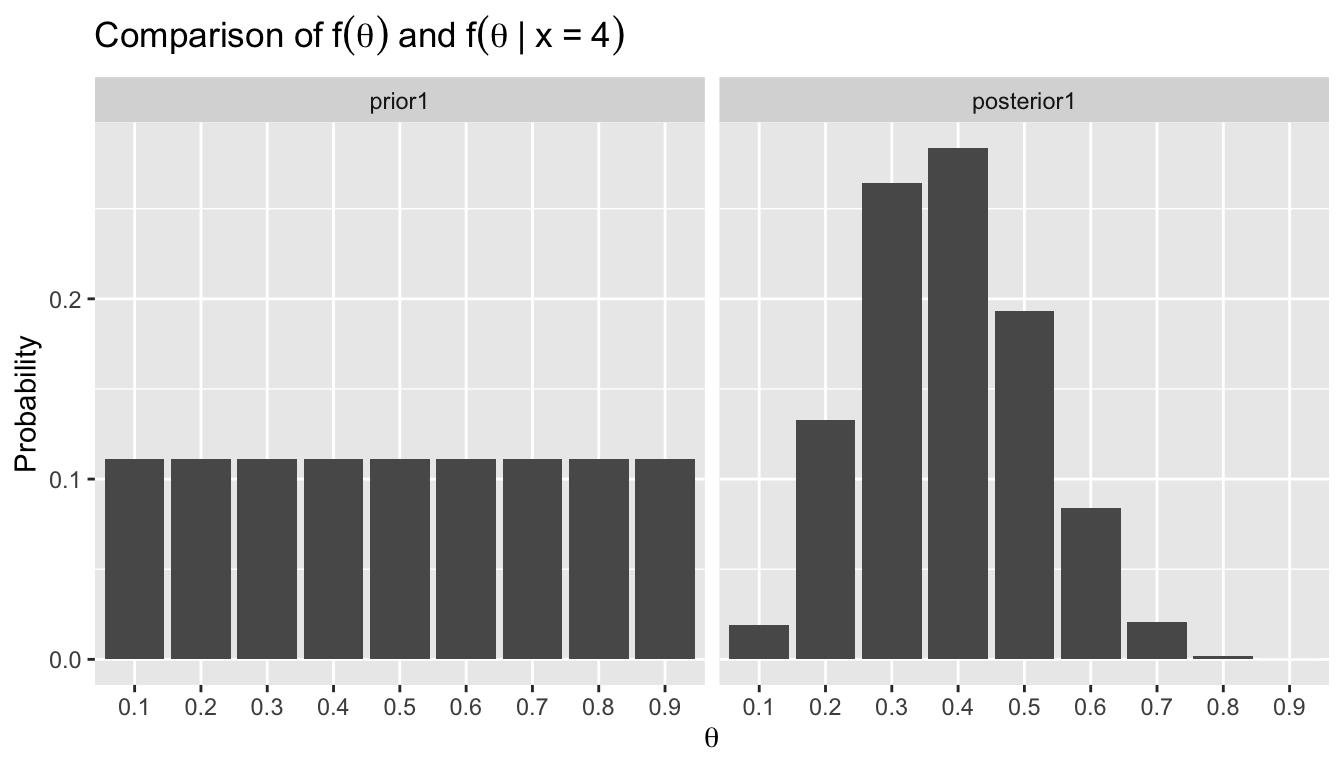
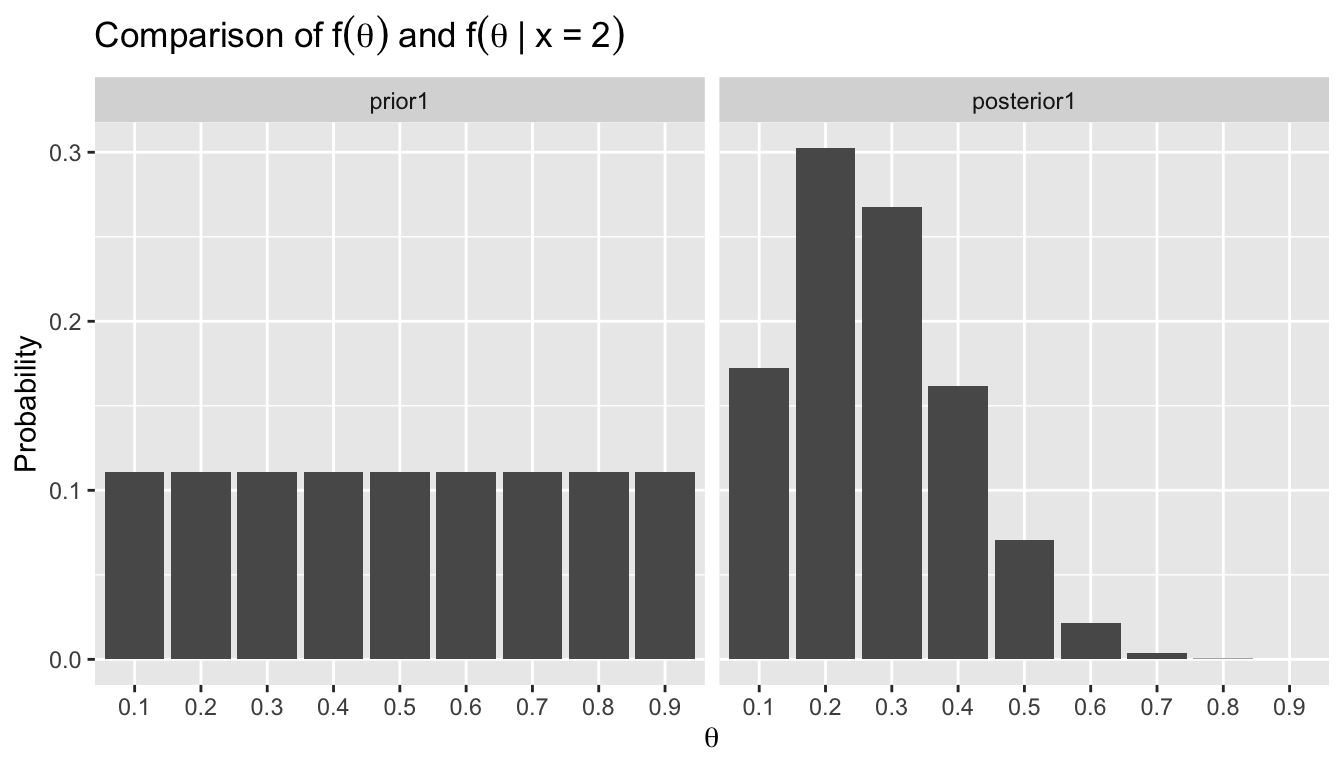
update example from class

diff --git a/docs/weeks/class/binom_discrete_prior.html b/docs/weeks/class/binom_discrete_prior.html
@@ -249,8 +249,8 @@ pre > code.sourceCode > span > a:first-child::before { text-decoration: underlin
 <h2 class="anchored" data-anchor-id="likelihood">Likelihood</h2>
 <div class="cell">
 <div class="code-copy-outer-scaffold"><div class="sourceCode cell-code" id="cb3"><pre class="sourceCode r code-with-copy"><code class="sourceCode r"><span id="cb3-1"><a href="#cb3-1" aria-hidden="true" tabindex="-1"></a><span class="co"># LIKELIHOOD</span></span>
-<span id="cb3-2"><a href="#cb3-2" aria-hidden="true" tabindex="-1"></a>x <span class="ot">&lt;-</span> <span class="dv">4</span></span>
-<span id="cb3-3"><a href="#cb3-3" aria-hidden="true" tabindex="-1"></a>n <span class="ot">&lt;-</span> <span class="dv">11</span></span>
+<span id="cb3-2"><a href="#cb3-2" aria-hidden="true" tabindex="-1"></a>x <span class="ot">&lt;-</span> <span class="dv">2</span></span>
+<span id="cb3-3"><a href="#cb3-3" aria-hidden="true" tabindex="-1"></a>n <span class="ot">&lt;-</span> <span class="dv">9</span></span>
 <span id="cb3-4"><a href="#cb3-4" aria-hidden="true" tabindex="-1"></a><span class="do">## since R is vectorized:</span></span>
 <span id="cb3-5"><a href="#cb3-5" aria-hidden="true" tabindex="-1"></a>like <span class="ot">&lt;-</span> <span class="fu">dbinom</span>(x, <span class="at">size =</span> n, <span class="at">prob =</span> theta)</span>
 <span id="cb3-6"><a href="#cb3-6" aria-hidden="true" tabindex="-1"></a><span class="do">## equivalently</span></span>
@@ -277,16 +277,16 @@ pre > code.sourceCode > span > a:first-child::before { text-decoration: underlin
 <span id="cb5-4"><a href="#cb5-4" aria-hidden="true" tabindex="-1"></a>bayes_table <span class="sc">|&gt;</span></span>
 <span id="cb5-5"><a href="#cb5-5" aria-hidden="true" tabindex="-1"></a>  <span class="fu">select</span>(theta, posterior1)</span></code></pre></div><button title="Copy to Clipboard" class="code-copy-button"><i class="bi"></i></button></div>
 <div class="cell-output cell-output-stdout">
-<pre><code>  theta    posterior1
-1   0.1 0.01893857939
-2   0.2 0.13286167531
-3   0.3 0.26413206805
-4   0.4 0.28375828506
-5   0.5 0.19333918362
-6   0.6 0.08407652891
-7   0.7 0.02079173713
-8   0.8 0.00207596368
-9   0.9 0.00002597885</code></pre>
+<pre><code>  theta     posterior1
+1   0.1 0.172540644083
+2   0.2 0.302610329960
+3   0.3 0.267376133286
+4   0.4 0.161574412017
+5   0.5 0.070456957901
+6   0.6 0.021277288825
+7   0.7 0.003865794038
+8   0.8 0.000295517900
+9   0.9 0.000002921991</code></pre>
 </div>
 <div class="code-copy-outer-scaffold"><div class="sourceCode cell-code" id="cb7"><pre class="sourceCode r code-with-copy"><code class="sourceCode r"><span id="cb7-1"><a href="#cb7-1" aria-hidden="true" tabindex="-1"></a><span class="co"># confirm valid PMF </span></span>
 <span id="cb7-2"><a href="#cb7-2" aria-hidden="true" tabindex="-1"></a><span class="fu">sum</span>(bayes_table<span class="sc">$</span>posterior1)</span></code></pre></div><button title="Copy to Clipboard" class="code-copy-button"><i class="bi"></i></button></div>
@@ -320,16 +320,16 @@ pre > code.sourceCode > span > a:first-child::before { text-decoration: underlin
 <h2 class="anchored" data-anchor-id="compare-to-posterior-under-prior-2">Compare to posterior under prior 2</h2>
 <div class="cell">
 <div class="cell-output cell-output-stdout">
-<pre><code>  theta     posterior2
-1   0.1 0.006168515787
-2   0.2 0.043274594401
-3   0.3 0.086030889543
-4   0.4 0.369693507640
-5   0.5 0.377836937562
-6   0.6 0.109538817078
-7   0.7 0.006772110839
-8   0.8 0.000676165538
-9   0.9 0.000008461613</code></pre>
+<pre><code>  theta    posterior2
+1   0.1 0.09077074024
+2   0.2 0.15919822139
+3   0.3 0.14066210121
+4   0.4 0.34000635760
+5   0.5 0.22239734613
+6   0.6 0.04477449977
+7   0.7 0.00203372943
+8   0.8 0.00015546701
+9   0.9 0.00000153721</code></pre>
 </div>
 <div class="cell-output-display">
 <div>
